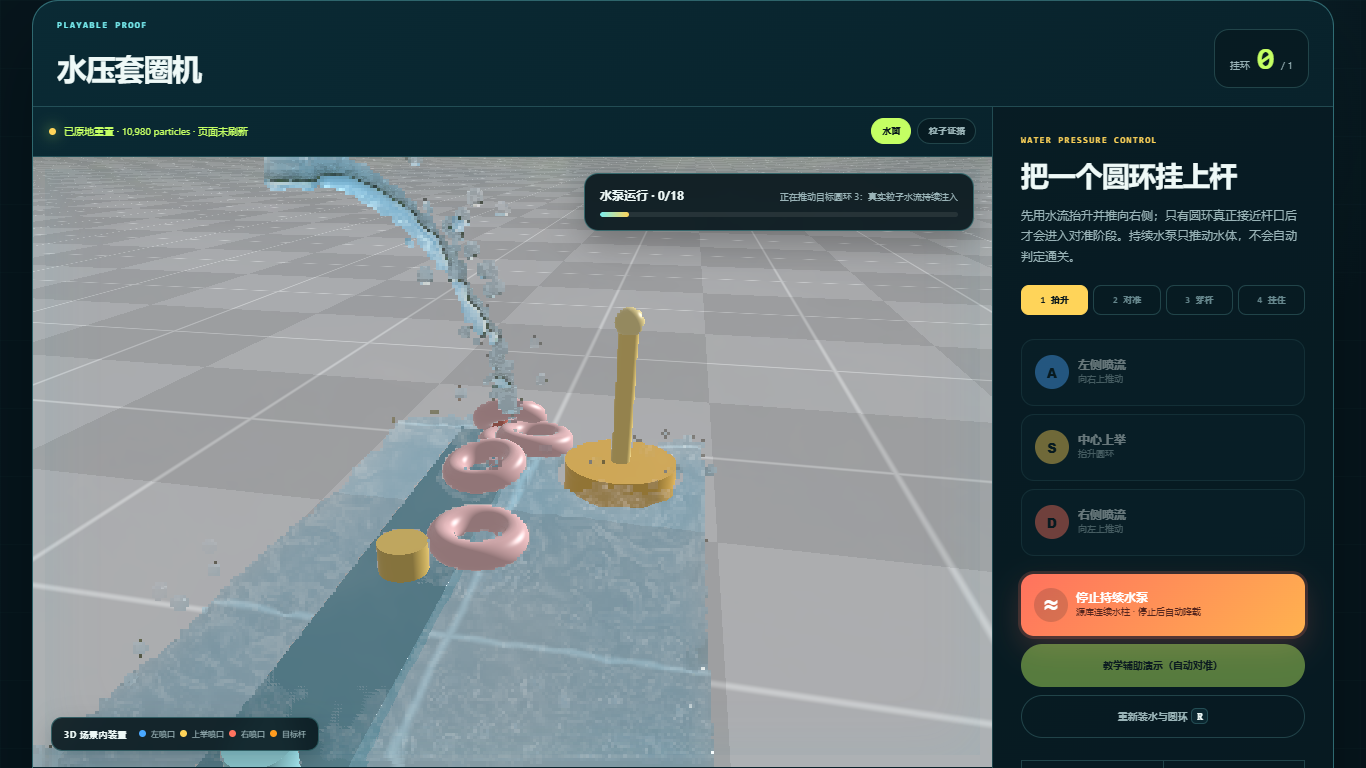
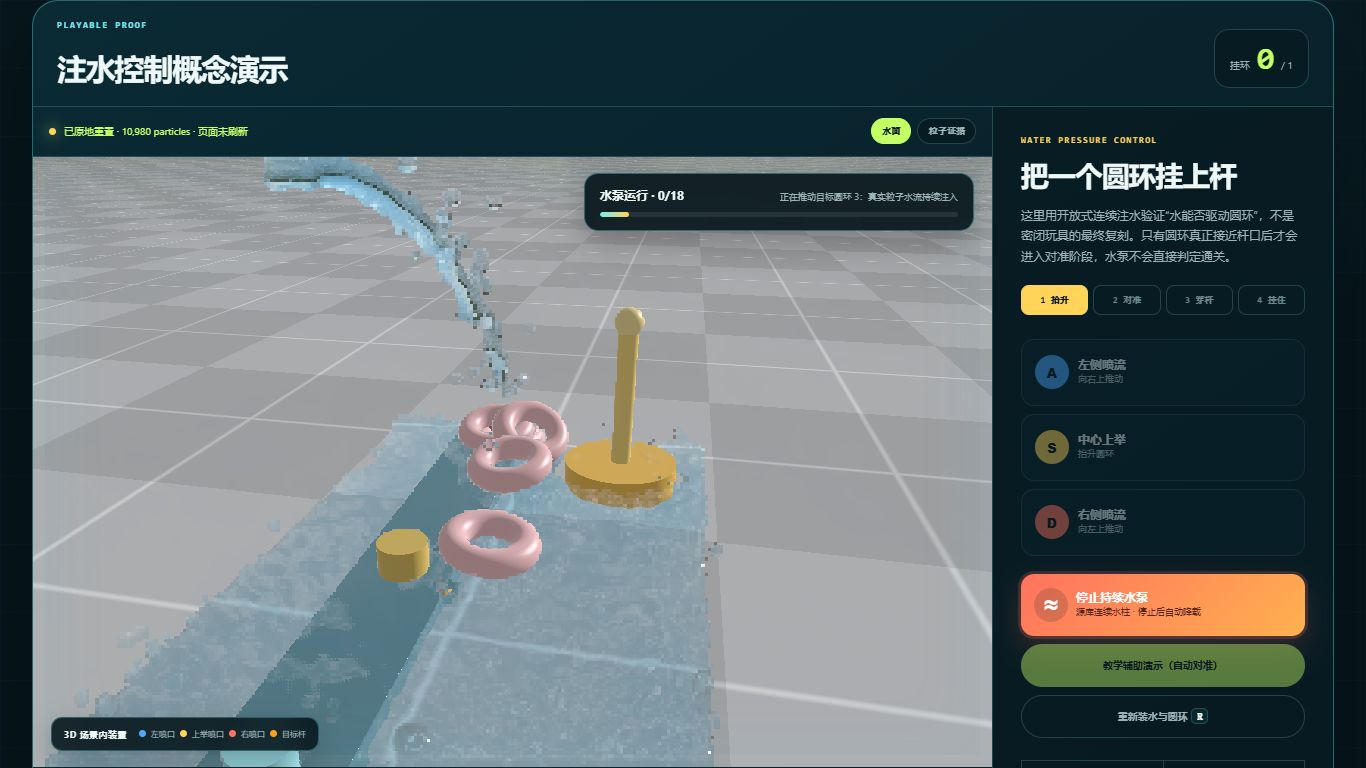
docs: clarify water ring research direction

diff --git a/docs/demos/particles4all/water-ring-game/index.html b/docs/demos/particles4all/water-ring-game/index.html
@@ -3,7 +3,7 @@
 <head>
   <meta charset="utf-8" />
   <meta name="viewport" content="width=device-width, initial-scale=1" />
-  <meta name="description" content="基于 Particles4All 原生水体与 torus 刚体的网页水中套圈互动原型。" />
+  <meta name="description" content="基于 Particles4All 原生水体与 torus 刚体的网页水中套圈能力验证；当前以连续注水演示流体驱动，后续可探索循环水压与容器摇晃。" />
   <title>水中套圈｜Particles4All 场景原型</title>
   <link rel="icon" href="data:," />
   <link rel="stylesheet" href="./styles.css" />
@@ -11,7 +11,7 @@
 <body>
   <header class="topbar">
     <a class="brand" href="../"><span>PA</span><strong>Particles4All<br />场景原型</strong></a>
-    <nav aria-label="页面导航"><a href="#game">开始游戏</a><a href="#mapping">能力映射</a><a href="#boundary">当前边界</a></nav>
+    <nav aria-label="页面导航"><a href="#game">演示</a><a href="#mapping">能力映射</a><a href="#direction">研究定位</a><a href="#boundary">当前边界</a></nav>
     <a class="source-link" href="https://github.com/matsuoka-601/Particles4All" target="_blank" rel="noreferrer">GitHub 源库 ↗</a>
   </header>
 
@@ -22,14 +22,14 @@
         <h1>把小时候的<br /><em>水中套圈</em><br />放进网页。</h1>
       </div>
       <div class="hero-note">
-        <p>按下水压按钮，让真实粒子水流推动原生圆环。目标不是重新发明水，而是验证 Particles4All 能否从算法演示转化为可玩的局部液体互动。</p>
+        <p>当前采用连续注水，让真实粒子水流推动原生圆环。这只是控制映射的一种验证：目标是判断 Particles4All 能否支撑局部液体互动，并为循环水压、密闭容器摇晃等后续路线保留证据。</p>
         <div class="legend"><span class="u0">U0 源库</span><span class="e1">E2 求解扩展</span><span class="g1">G1 游戏逻辑</span></div>
       </div>
     </section>
 
     <section id="game" class="game-shell shell" aria-labelledby="game-title">
       <header class="game-head">
-        <div><p class="kicker">PLAYABLE PROOF</p><h2 id="game-title">水压套圈机</h2></div>
+        <div><p class="kicker">PLAYABLE PROOF</p><h2 id="game-title">注水控制概念演示</h2></div>
         <div class="scoreboard" aria-live="polite"><span>挂环</span><strong id="score">0</strong><small>/ 1</small></div>
       </header>
 
@@ -57,7 +57,7 @@
         <aside class="control-card">
           <p class="control-kicker">WATER PRESSURE CONTROL</p>
           <h3>把一个圆环挂上杆</h3>
-          <p class="control-copy">先用水流抬升并推向右侧；只有圆环真正接近杆口后才会进入对准阶段。持续水泵只推动水体，不会自动判定通关。</p>
+          <p class="control-copy">这里用开放式连续注水验证“水能否驱动圆环”，不是密闭玩具的最终复刻。只有圆环真正接近杆口后才会进入对准阶段，水泵不会直接判定通关。</p>
 
           <ol id="objective-track" class="objective-track" aria-label="通关步骤">
             <li data-phase="lift" class="active">1 抬升</li>
@@ -100,9 +100,18 @@
       </div>
     </section>
 
+    <section id="direction" class="section shell">
+      <div class="section-heading"><div><p class="kicker">RESEARCH POSITIONING</p><h2>演示的是能力，不是把注水定为最终方案。</h2></div><p>小时候的实体玩具更接近“密闭水体 + 外部硬件动作”。当前网页先用最容易验证的注水输入建立能力基线，再比较更真实的控制映射。</p></div>
+      <div class="mapping-grid">
+        <article><span class="label u0">实体原型</span><h3>摇晃或按压硬件</h3><p>容器内水量基本不变；玩家摇晃容器、按压水囊或活塞，改变容器加速度、边界速度或局部压力，使圆环依靠惯性与水动力挂杆。</p></article>
+        <article><span class="label e1">当前验证</span><h3>开放式连续注水</h3><p>源库逐帧生成真实流体粒子并推动 torus 圆环，适合快速证明喷流、冲击、漂移和流体—刚体耦合。但它会增加场景水量，因此不能等同于密闭玩具。</p></article>
+        <article><span class="label g1">后续比较</span><h3>循环水压与容器摇晃</h3><p>路线一做等量进出水或活塞边界，保持总体水量；路线二把鼠标、手柄或设备姿态映射为容器加速度与移动边界，再比较自然度、性能和通关率。</p></article>
+      </div>
+    </section>
+
     <section id="boundary" class="boundary shell">
-      <div><p class="kicker">CURRENT BOUNDARY</p><h2>杆、底座和顶帽已有求解器碰撞；自动穿杆仍保留游戏引导。</h2></div>
-      <ul><li>抬升、冲击、漂移和圆环刚体姿态由源库计算。</li><li>杆、底座、泵体和喷口与水、圆环共用 3D 世界坐标；页面不使用 HTML 几何覆盖画布。</li><li>杆、底座和顶帽采用解析碰撞体，每轮在刚体形状匹配后投影穿透粒子，并按粒子半径保留表面间距。</li><li>当前自动对准与沿杆下落仍使用 Runtime 捕获引导，以保证游戏可完成；下一步可研究摩擦、反弹和取消捕获后的纯物理自由玩法。</li></ul>
+      <div><p class="kicker">CURRENT BOUNDARY</p><h2>当前证明了水能驱动圆环；尚未证明密闭玩具的完整物理。</h2></div>
+      <ul><li>连续水柱、冲击、漂移和圆环刚体姿态由源库计算；注水入口会真实增加粒子与总体水量。</li><li>杆、底座、泵体和喷口与水、圆环共用 3D 世界坐标；杆、底座和顶帽已有求解器解析碰撞。</li><li>实体玩具路线还需要质量守恒的循环水压，或把硬件摇晃映射为容器加速度、重力方向与移动边界。</li><li>当前自动对准与沿杆下落仍使用 Runtime 捕获引导；纯物理自由模式还需要摩擦、反弹、孔轴接触和通关率研究。</li></ul>
       <a href="../">返回完整源库能力实验台 →</a>
     </section>
   </main>

diff --git a/docs/demos/particles4all/index.html b/docs/demos/particles4all/index.html
@@ -41,7 +41,7 @@
         </nav>
 
         <footer class="lab-footer">
-          <p><a href="./water-ring-game/">可玩场景：水中套圈 →</a></p>
+          <p><a href="./water-ring-game/">能力概念演示：水中套圈（当前采用连续注水控制）→</a></p>
           <p>上游：<a href="https://github.com/matsuoka-601/Particles4All" target="_blank" rel="noreferrer">matsuoka-601/Particles4All ↗</a></p>
           <p><a href="https://github.com/yydshly/0822_githubcode_study/blob/main/projects/particles4all/PROGRAM_PLAN.md" target="_blank" rel="noreferrer">总体研究与扩展计划 ↗</a></p>
           <p><a href="https://github.com/yydshly/0822_githubcode_study/blob/main/projects/particles4all/RESEARCH_CHARTER.md" target="_blank" rel="noreferrer">研究与扩展章程 ↗</a></p>

diff --git a/projects/particles4all/WATER_RING_GAME.md b/projects/particles4all/WATER_RING_GAME.md
@@ -6,6 +6,24 @@
 
 在线入口：`docs/demos/particles4all/water-ring-game/`
 
+## 研究定位
+
+这个页面是 Particles4All 局部流体—刚体能力的场景验证，不是对小时候实体水中套圈玩具的完整复刻，也不意味着“持续向容器加水”已经被选为最终玩法。
+
+实体玩具可抽象为一个近似密闭系统：容器内水量基本不变，玩家通过按压水囊/活塞或摇晃整个硬件，改变局部压力、边界速度或容器加速度，水体再把动量传给圆环。当前网页选择开放式连续注水，是因为源库已有逐帧注水通道，可以用最短路径验证喷流是否连续可见、是否真实进入 PBF 求解器、是否推动原生 torus 刚体以及能否完成局部互动闭环。
+
+因此，当前结论应表述为：**Particles4All 已证明能够承载水流驱动圆环的网页互动思路；注水只是已验证的输入方式之一，密闭循环水压和容器摇晃仍是待研究路线。**
+
+## 控制路线与物理映射
+
+| 路线 | 输入如何映射到求解器 | 是否改变总水量 | 当前状态 | 主要价值与问题 |
+| --- | --- | --- | --- | --- |
+| 开放式连续注水 | 源库 `pourStep → appendFluid` 逐帧生成带速度的流体粒子 | 是 | 已演示 | 最容易观察连续喷流、冲击和流固耦合；必须保证水柱轨迹、落点、流量和性能合理 |
+| 循环水压/活塞 | 入口施加速度或压力，出口等量回收；或由移动活塞边界挤压水体 | 否 | 待研究 | 更接近按钮式密闭玩具，需要质量守恒、入口/出口和边界条件扩展 |
+| 摇晃容器 | 鼠标、手柄或 IMU 输入映射为容器加速度、重力方向变化和移动边界 | 否 | 待研究 | 更接近用户描述的硬件摇晃玩法，需要惯性系、容器碰撞、设备输入与眩晕控制 |
+
+不论采用哪条路线，验收都不能只看“环动了”：输入装置与水流起点必须在空间上连接，速度和抛物轨迹要一致；密闭路线需检查质量守恒；水流冲击后圆环的加速、阻尼、浮沉、碰撞和落座要可解释；性能优化不能再次删除核心水体现象。
+
 ## 能力归属
 
 | 层级 | 实现 |
@@ -46,7 +64,7 @@
 
 可玩性修正后，默认场景从 14,980 个初始粒子调整为 10,980 个（10,000 流体 + 980 刚体）。开场先短暂运行求解器，让水体形成自由表面，然后自动暂停；随后 1.4 秒空闲验收中模拟时间保持不变，并只以 5 FPS 刷新静态画面。玩家操作后恢复模拟并限制为 30 FPS。相较原先空闲时持续约 49 FPS 的 SSFR 计算，空闲渲染提交频率约降低 90%，同时初始粒子总量降低约 27%。
 
-## 下一 Gate
+## 当前结论与下一 Gate
 
 当前已完成“任意圆环、一个单杆”的完整可玩回合：目标杆与初始圆环的最近中心距离约为 0.262 m，开局挂环数固定为 0。持续水泵直接复用源库 `pourStep → appendFluid → PBF/SSFR` 逐帧注水通道，不再用间歇粒子团模拟水泵。圆环累计受到至少 650 个新增流体粒子的作用、位移超过 0.12 m 且进入装置接触区后，才由 Runtime 捕获约束完成抬升对准、穿杆和沿杆下落；教学辅助仍是独立按钮并明确标注。当前两轮回归均由连续真实水流触发 `water-entry`；水柱可见性证据要求截图时水流仍在运行且至少已有 650 个新增粒子进入场景，未使用教学辅助。
 
@@ -55,3 +73,5 @@
 杆、底座、泵体和喷口现在与水体、圆环共用引擎相机、透视和 SSFR/粒子显示通道；重置与显示切换均为原地状态更新。底座圆柱、细杆圆柱和顶帽球体还会在每轮 Shape Matching 后执行解析位置投影，粒子自身半径计入安全距离。浏览器验收直接回读挂环的 196 个刚体粒子，底座、杆、顶帽穿透数均为 0。
 
 当前仍保留捕获约束来完成自动对准与沿杆下落，所以这是“真实静态碰撞 + 可玩性引导”，不是完全自由的物理套圈。下一 Gate 是加入接触摩擦与反弹参数，并提供关闭捕获引导的自由模式，比较可玩性、自然度和通关率。
+
+后续不默认继续堆叠功能。只有在需要更贴近实体玩具时，才启动下一阶段：优先制作“当前连续注水 / 质量守恒循环水压 / 容器摇晃”三种输入的同场景对照，用水量变化、圆环位移、通关率、帧时间和视觉自然度决定采用哪条路线。

diff --git a/projects/particles4all/README.md b/projects/particles4all/README.md
@@ -26,6 +26,8 @@
 
 基础研究已经归档；当前只因“网页水中套圈”这一明确局部液体—刚体场景进入受限原型验证。它复用固定上游、Runtime Adapter 和 torus 刚体，不恢复宏观水场景扩张。[Water Scene Lab](../water-scene-lab/README.md) 继续作为历史场景探索归档。
 
+水中套圈网页目前是能力概念演示，不把“持续注水”定义为最终产品方案。实体玩具可抽象为密闭水体受到按压或容器摇晃；当前先用源库连续注水通道验证水流—圆环耦合，后续只在明确场景需求下比较质量守恒的循环水压、移动容器边界和设备姿态输入。具体物理映射与验收边界见 [`WATER_RING_GAME.md`](WATER_RING_GAME.md)。
+
 项目采用计划驱动模式，并已完成 M0–M6。最终选择是保留研究基线与内部 Adapter 工具包、准备一个慢帧 FPS 上游候选补丁，同时停止复杂容器、宏观水环境和通用实时 SDK 扩展。最终适用场景、边界和重启条件见 [`ARCHIVE_SUMMARY.md`](ARCHIVE_SUMMARY.md)。
 
 ## 唯一研究路线
